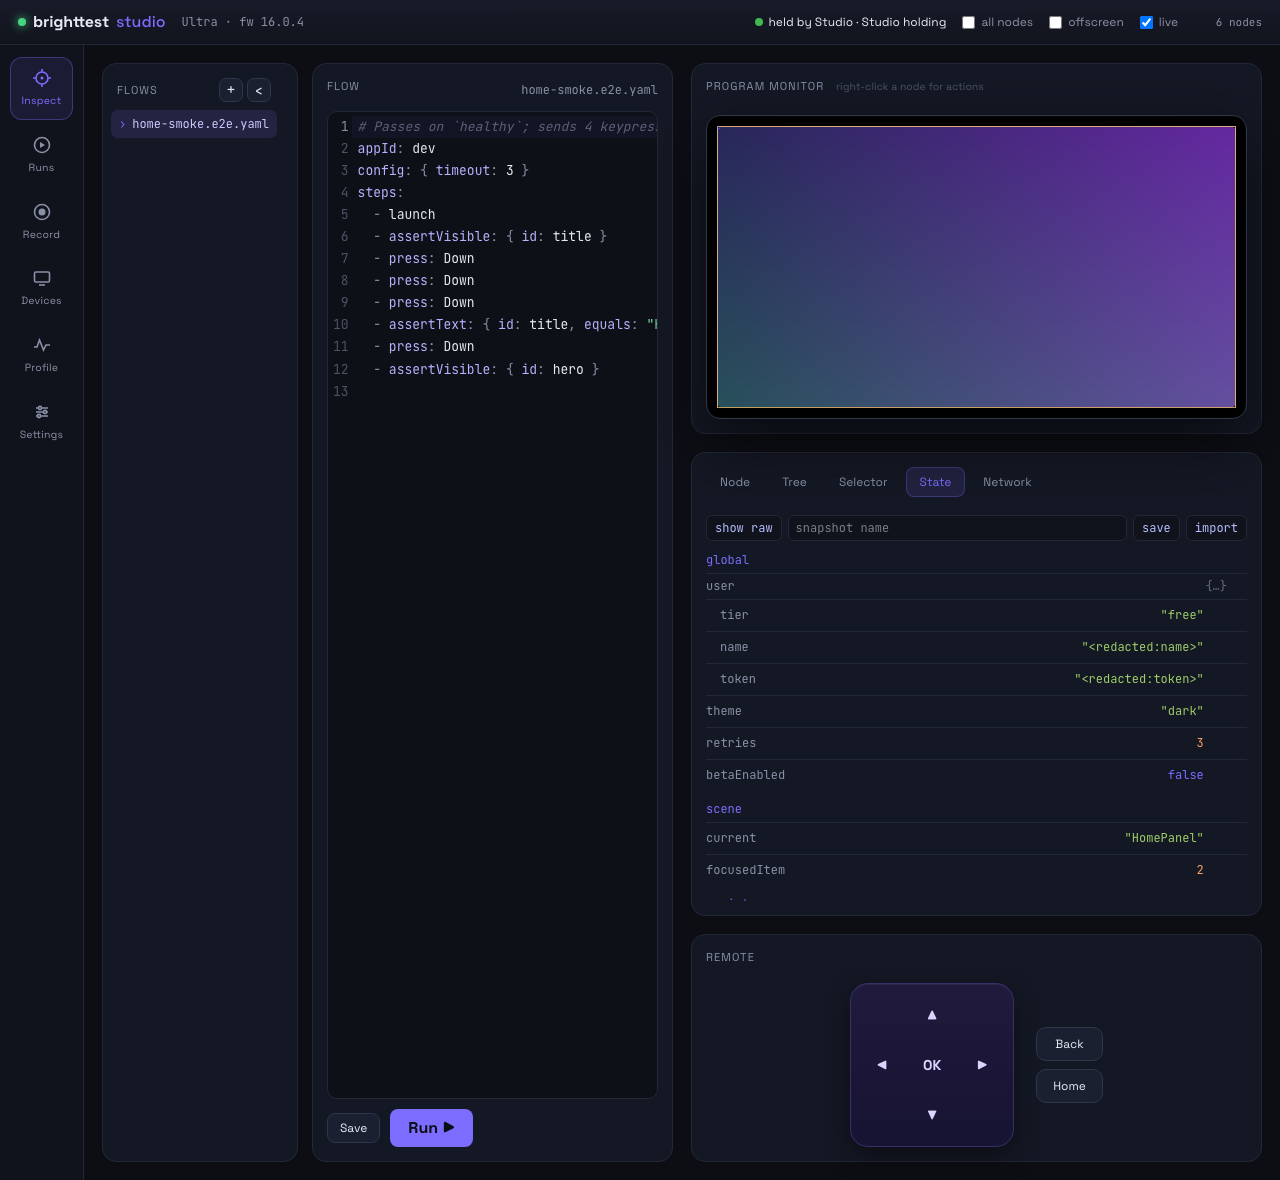
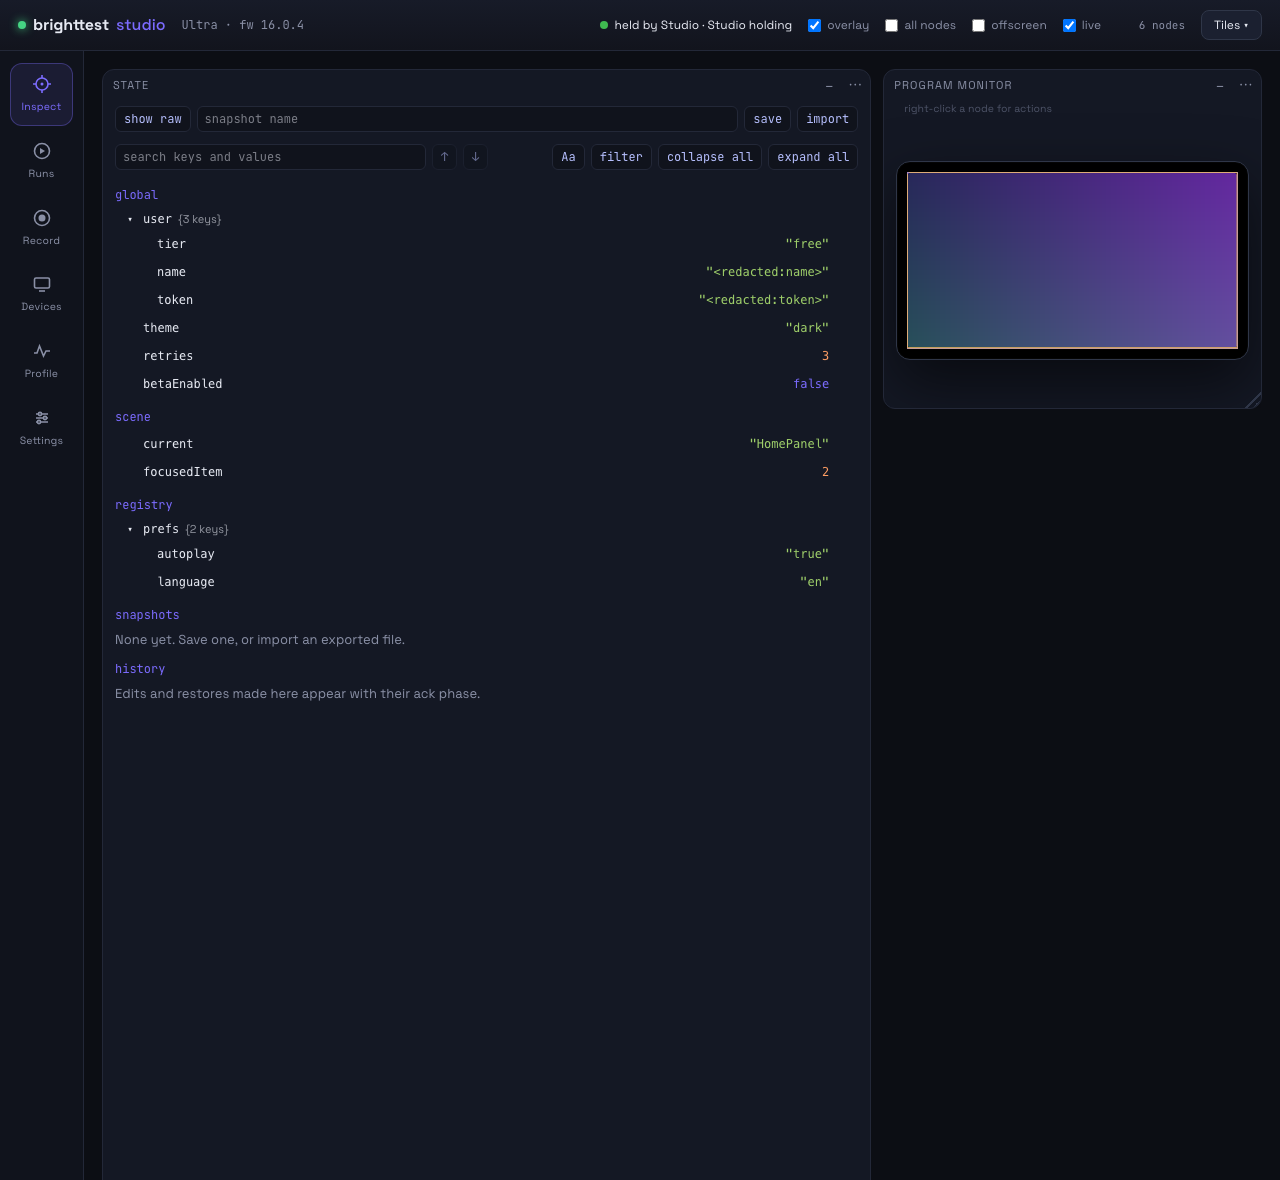
fix(docs): fix the screenshot script for the tile layout and refresh studio images

diff --git a/scripts/docs-screenshots.js b/scripts/docs-screenshots.js
@@ -135,11 +135,16 @@ async function main() {
   await sleep(500);
   await shot('overview.png');
 
-  // State inspector with an edit.
-  await clickText('.tabs button', 'State');
+  // State inspector with an edit. The overview uses the default tile layout; the State shots use a saved tile layout
+  // that gives the State tile most of the page (the same localStorage key the Tiles menu writes), so the rows show.
+  const T = (id, x, y, w, h, state = 'open') => ({ id, x, y, w, h, state });
+  const stateLayout = { v: 1, reg: 1, tiles: [T('state', 0, 0, 8, 34), T('monitor', 8, 0, 4, 8), T('flow', 0, 0, 6, 20, 'hidden'), T('remote', 6, 11, 2, 9, 'hidden'), T('node', 8, 11, 4, 9, 'hidden'), T('tree', 0, 20, 4, 9, 'hidden'), T('selector', 4, 20, 4, 9, 'hidden'), T('actions', 0, 29, 6, 8, 'hidden'), T('network', 6, 29, 6, 8, 'hidden')] };
+  await js(`localStorage.setItem('bt.studio.layout.inspect', ${JSON.stringify(JSON.stringify(stateLayout))})`);
+  await js(`location.reload()`);
+  await until(`document.querySelector('[data-testid="tile-state"]')`, 'the state tile');
   await until(`document.querySelector('button.val.edit')`, 'the state rows');
   await shot('state-inspector.png');
-  await js(`[...document.querySelectorAll('.row')].find((r) => r.querySelector('dt') && r.querySelector('dt').textContent.trim() === 'theme').querySelector('button.val').click()`);
+  await js(`[...document.querySelectorAll('[data-testid="state-row"]')].find((r) => r.querySelector('.key') && r.querySelector('.key').textContent.trim() === 'theme').querySelector('button.val').click()`);
   await js(`(() => { const i = document.querySelector('input.ed'); i.value = 'light'; i.dispatchEvent(new Event('input', { bubbles: true })); })()`);
   await clickText('button', 'set');
   await until(`[...document.querySelectorAll('.chip')].some((c) => c.textContent.trim() === 'reflected')`, 'the reflected ack chip');
@@ -149,7 +154,7 @@ async function main() {
 
   // The device is held elsewhere: Studio lets go of the lease, another session takes it, and an edit is then refused (423).
   const post = (action) => fetch(`${base}/api/lease`, { method: 'POST', headers: { 'Content-Type': 'application/json' }, body: JSON.stringify({ action }) });
-  await js(`[...document.querySelectorAll('.row')].find((r) => r.querySelector('dt') && r.querySelector('dt').textContent.trim() === 'retries').querySelector('button.val').click()`);
+  await js(`[...document.querySelectorAll('[data-testid="state-row"]')].find((r) => r.querySelector('.key') && r.querySelector('.key').textContent.trim() === 'retries').querySelector('button.val').click()`);
   await post('release');
   const key = `127.0.0.1_p${ports.ecpPort}`;
   const other = await lease.acquire({ dir: process.env.BRIGHTTEST_LEASE_DIR, key, agent: 'e2e-run#1', purpose: 'e2e run', pid: process.pid, waitMs: 0, exitOnLost: false, timers: false, identity: {} });

diff --git a/docs/guide/studio.md b/docs/guide/studio.md
@@ -52,7 +52,7 @@ send those headers. (`lib/studio/server.js`, the request guard near `LOOPBACK_HO
 ## The device lease
 
 Studio is a normal client of the [device lease](/guide/device-lease#studio): it takes the lease on the first request from
-an open tab or on a user action, releases it after `studioIdle` without user actions (or `studioYield` when someone is
+an open tile or on a user action, releases it after `studioIdle` without user actions (or `studioYield` when someone is
 queued), and never preempts. While another session holds the device, device routes answer `423` with the lease status.
 The header badge shows who holds the device.
 
@@ -62,7 +62,7 @@ From a source checkout, build the web bundle with `npm run studio:build`.
 
 ![Header badge and banner saying the device is in use by another session, with Take over when free](/images/studio/device-held.png)
 *Another session holds the device (monitor picture is a placeholder frame). The banner offers **Take over when free**, and the
-State tab switches to its read-only held view with the notice "Device is held by another session". An edit sent after the
+State tile switches to its read-only held view with the notice "Device is held by another session". An edit sent after the
 hand-over is refused with HTTP 423 and nothing is written (the inspector sets "Device is held elsewhere; edit not sent."
 but the held view then replaces the panel, so that line may not stay on screen). The header badge can lag: it updates on
 the next poll, so it may still read "Studio holding" or already read "Studio released" while the banner shows the other holder. The read-only held view masks `name` and `token` like the live view.*
@@ -78,16 +78,16 @@ is open. Studio's own hold shows like any other holder, with the purpose `studio
 
 ## State inspector
 
-The **State** tab on the Inspect page reads the instrumented app's `__bt_agent` node over ECP (one small request, not a
+The **State** tile on the Inspect page reads the instrumented app's `__bt_agent` node over ECP (one small request, not a
 tree walk) and shows its layers: `global`, `scene` and `registry`, each marked **truncated** if the agent had to cut
 it. The values shown are redacted by default: the agent masks secret-looking keys as `<redacted:key>`, and Studio adds
 the built-in key names plus `instrument.state.redact.paths` from `brighttest.json`. **show raw** reveals only what
 Studio masks on top of the agent's own masking, behind a banner, and makes exports unredacted.
 Studio masks published app state everywhere it shows it read-only, including the State view when the hub is held or absent, the node list and run traces, using the built-in sensitive key names plus `instrument.state.redact.paths`. Only the State panel's **show raw** toggle (`?raw=1`) reveals raw values. Unmaskable text is shown as `<redacted:text>` (a run step that cannot be masked is shown without its nodes or app state). The failure message of an `assertState` step can still contain the asserted value. Without an
-instrumented build the tab says no layers were published; see [Instrumented builds](/guide/instrument).
+instrumented build the tile says no layers were published; see [Instrumented builds](/guide/instrument).
 
-![State tab showing the global and scene layers, with a masked name and token](/images/studio/state-inspector.png)
-*State tab, read from the scripted stand-in app (monitor picture is a placeholder frame). `name` and `token` are masked.*
+![State tile showing the global and scene layers, with a masked name and token](/images/studio/state-inspector.png)
+*State tile, read from the scripted stand-in app (monitor picture is a placeholder frame). `name` and `token` are masked.*
 
 ### Editing
 
@@ -99,7 +99,7 @@ adds the edit to the open flow, and **+** on a leaf adds an `assertState`. Regis
 `<section>.<key>` value; a `<redacted:...>` marker is never written (HTTP 400 `REDACTED_VALUE`). The hub logs each
 command as `cmd.sent` and the app's replies as `cmd.ack`.
 
-![State tab after editing theme to light, with a reflected chip and a setState step button](/images/studio/state-edit.png)
+![State tile after editing theme to light, with a reflected chip and a setState step button](/images/studio/state-edit.png)
 *An edit of `theme` acked through to **reflected** (monitor picture is a placeholder frame); a snapshot was saved with **save**.*
 
 Snapshots (save, restore, delete, diff, export, import) are capped at 64 KB each, 20 kept. The history list shows each
@@ -108,14 +108,14 @@ edit and restore with its ack phase. The action log, time travel and "save as sp
 
 ### Node State view
 
-The **Node** tab has a **Fields** / **State** switch (Fields, the ECP strings, is the default; the choice is kept for the
+The **Node** tile has a **Fields** / **State** switch (Fields, the ECP strings, is the default; the choice is kept for the
 session). **State** reads the selected node through the app's agent over the hub (`GET /api/state/node`, no ECP request):
-the node's own fields (**fields**) or its component's `m` (**m**), as the same value tree the State tab shows, with a
+the node's own fields (**fields**) or its component's `m` (**m**), as the same value tree the State tile shows, with a
 **refresh** button and the age of the last read. It refreshes every 2 s while it is visible, Live is on and nothing is
 being edited. Open it by clicking a node on the monitor and choosing **State**, by the **state** button on a Tree row,
-or by **Inspect state** in the right-click menu (the last two switch to the Node tab in State view).
+or by **Inspect state** in the right-click menu (the last two switch to the Node tile in State view).
 
-- **Edit** a leaf like in the State tab: the value keeps its type, the edit is sent with `layer: node` or `m` and the
+- **Edit** a leaf like in the State tile: the value keeps its type, the edit is sent with `layer: node` or `m` and the
   node id, and an ack chip walks received, applied or shows the refusal (`FIELD_NOT_FOUND`, `TYPE_MISMATCH`,
   `PATH_UNDER_NODE`, `M_NOT_AVAILABLE`, `M_PATH_FORBIDDEN`, `NODE_NOT_FOUND`, `REDACTED_VALUE`, `STATE_TOO_LARGE`) with a
   short hint. The edited path is read again afterwards. **+ setState step** adds the edit to the open flow. `PATH_UNDER_NODE`
@@ -134,12 +134,12 @@ or by **Inspect state** in the right-click menu (the last two switch to the Node
 - **+** next to a node field adds `assertField` using the tree's string value, only for fields in the node's ECP
   attributes. `m` has no assertion button yet.
 
-### Actions tab
+### Actions tile
 
-The **Actions** tab lists the app's `state.action` log (seq, type, hash before and after) and refreshes every 2 s. **Travel** on a
+The **Actions** tile lists the app's `state.action` log (seq, type, hash before and after) and refreshes every 2 s. **Travel** on a
 row restores the state recorded at that entry. The 202 reply carries a note that is shown as-is: it restores the recorded state
 only, and the effects of later actions (network, registry, tasks) are not undone. An entry with no recorded snapshot answers
-409 `NO_SNAPSHOT`. Recording a snapshot is route-only: Studio has no record control. The tab shows a message, and no rows, when
+409 `NO_SNAPSHOT`. Recording a snapshot is route-only: Studio has no record control. The tile shows a message, and no rows, when
 there is no hub, the device is held elsewhere, or the routes are unreachable.
 
 ### Refusals you may see
@@ -203,8 +203,8 @@ is on by default and Studio remembers the choice in the browser (`localStorage`,
 server or in config.
 
 - **Off:** nothing is drawn over the picture (no outlines, hover or run highlight), clicking the picture selects
-  nothing, and **all nodes** and **offscreen** are disabled. The selected node stays selected, so the Node tab and the
-  context-menu steps still work from the Tree tab. The monitor header shows "overlay off".
+  nothing, and **all nodes** and **offscreen** are disabled. The selected node stays selected, so the Node tile and the
+  context-menu steps still work from the Tree tile. The monitor header shows "overlay off".
 - **Tree reads:** with the overlay off, Studio reads the SceneGraph tree only while the Node, Tree or Selector tile is open
   on the Inspect page, or the State tile shows the read-only app state; then once a second instead of every 300 ms.
   Otherwise it reads nothing, which frees the device for screenshots and key presses.
@@ -213,8 +213,8 @@ server or in config.
 ## Other pages
 
 **Runs** (run flows and step through a time-travel trace; each run frame carries the app state snapshot), **Record**
-(capture remote presses into a flow), **Devices** (discover and switch Rokus) and **Settings** (a read-mostly page of the effective settings, below). **Run** executes state and network steps too (`setState`, `snapshot`, `restore`, `callFunc`, `waitForAgent`, `mockHttp`, `assertRequest` and the rest) through Studio's own hub, the same way `brighttest e2e run` does; with no hub (no `BRIGHTTEST_HUB_TOKEN`, pool mode) such a flow fails before step 1 with the hub's message. `assertLog` and `expectNoLog` still need `e2e run`. **Stop** (`POST /api/run/stop` with the `runId` from the stream's `start` event; 200, or 409 `NOT_RUNNING`) ends a run between steps or mid-step: a polling step stops within about 250 ms, at most one device request is still in flight, and the stream sends `stopped` then `done` with `stopped: true`. The run is saved as **stopped**, the end-of-run cleanup (network rules, flow snapshots, unmatched mode) runs as for any end, and Studio keeps the device lease. A `setState`, `snapshot`, `restore` or `callFunc` already queued on the hub is not recalled and may still apply. Closing the page also stops the run, and only one run is active at a time (a second `/api/run` answers 409 `RUN_IN_PROGRESS`). The **Network** tab shows the hub's HTTP traffic; see [E2E: Network panel](/e2e/#network-panel).
-working controls). **Run** executes state and network steps too (`setState`, `snapshot`, `restore`, `callFunc`, `waitForAgent`, `mockHttp`, `assertRequest` and the rest) through Studio's own hub, the same way `brighttest e2e run` does; with no hub (no `BRIGHTTEST_HUB_TOKEN`, pool mode) such a flow fails before step 1 with the hub's message. `assertLog` and `expectNoLog` still need `e2e run`. **Stop** (`POST /api/run/stop` with the `runId` from the stream's `start` event; 200, or 409 `NOT_RUNNING`) ends a run between steps or mid-step: a polling step stops within about 250 ms, at most one device request is still in flight, and the stream sends `stopped` then `done` with `stopped: true`. The run is saved as **stopped**, the end-of-run cleanup (network rules, flow snapshots, unmatched mode) runs as for any end, and Studio keeps the device lease. A `setState`, `snapshot`, `restore` or `callFunc` already queued on the hub is not recalled and may still apply. In the page, **Run** becomes a red **Stop** button (`flow-stop`) while a run is active, and `Cmd+.` (macOS) or `Ctrl+.` stops it too, in the editor or anywhere on the page; Escape is left to the editor. The button then reads **Stopping...** until the run ends (after 5 s with no answer the page closes the stream, which stops the run anyway). The stopped step shows an amber square, the message reads "run stopped at step N (op)", a step stopped while a state command was queued adds that the command may still have applied, and the Runs page marks the run with a **stopped** badge (`run-stopped-badge`). Closing the page also stops the run, and only one run is active at a time (a second `/api/run` answers 409 `RUN_IN_PROGRESS`, which the page shows as "a run is already in progress"). The **Network** tab shows the hub's HTTP traffic; see [E2E: Network panel](/e2e/#network-panel).
+(capture remote presses into a flow), **Devices** (discover and switch Rokus) and **Settings** (a read-mostly page of the effective settings, below). **Run** executes state and network steps too (`setState`, `snapshot`, `restore`, `callFunc`, `waitForAgent`, `mockHttp`, `assertRequest` and the rest) through Studio's own hub, the same way `brighttest e2e run` does; with no hub (no `BRIGHTTEST_HUB_TOKEN`, pool mode) such a flow fails before step 1 with the hub's message. `assertLog` and `expectNoLog` still need `e2e run`. **Stop** (`POST /api/run/stop` with the `runId` from the stream's `start` event; 200, or 409 `NOT_RUNNING`) ends a run between steps or mid-step: a polling step stops within about 250 ms, at most one device request is still in flight, and the stream sends `stopped` then `done` with `stopped: true`. The run is saved as **stopped**, the end-of-run cleanup (network rules, flow snapshots, unmatched mode) runs as for any end, and Studio keeps the device lease. A `setState`, `snapshot`, `restore` or `callFunc` already queued on the hub is not recalled and may still apply. Closing the page also stops the run, and only one run is active at a time (a second `/api/run` answers 409 `RUN_IN_PROGRESS`). The **Network** tile shows the hub's HTTP traffic; see [E2E: Network panel](/e2e/#network-panel).
+working controls). **Run** executes state and network steps too (`setState`, `snapshot`, `restore`, `callFunc`, `waitForAgent`, `mockHttp`, `assertRequest` and the rest) through Studio's own hub, the same way `brighttest e2e run` does; with no hub (no `BRIGHTTEST_HUB_TOKEN`, pool mode) such a flow fails before step 1 with the hub's message. `assertLog` and `expectNoLog` still need `e2e run`. **Stop** (`POST /api/run/stop` with the `runId` from the stream's `start` event; 200, or 409 `NOT_RUNNING`) ends a run between steps or mid-step: a polling step stops within about 250 ms, at most one device request is still in flight, and the stream sends `stopped` then `done` with `stopped: true`. The run is saved as **stopped**, the end-of-run cleanup (network rules, flow snapshots, unmatched mode) runs as for any end, and Studio keeps the device lease. A `setState`, `snapshot`, `restore` or `callFunc` already queued on the hub is not recalled and may still apply. In the page, **Run** becomes a red **Stop** button (`flow-stop`) while a run is active, and `Cmd+.` (macOS) or `Ctrl+.` stops it too, in the editor or anywhere on the page; Escape is left to the editor. The button then reads **Stopping...** until the run ends (after 5 s with no answer the page closes the stream, which stops the run anyway). The stopped step shows an amber square, the message reads "run stopped at step N (op)", a step stopped while a state command was queued adds that the command may still have applied, and the Runs page marks the run with a **stopped** badge (`run-stopped-badge`). Closing the page also stops the run, and only one run is active at a time (a second `/api/run` answers 409 `RUN_IN_PROGRESS`, which the page shows as "a run is already in progress"). The **Network** tile shows the hub's HTTP traffic; see [E2E: Network panel](/e2e/#network-panel).
 ### Settings page
 
 Settings shows what Studio is using and where each value came from; it changes only two things, both on request: **Save as project default** and **Reset Studio preferences in this
@@ -278,7 +278,7 @@ performance) answer 409 `SIMULATOR_TARGET`, and the Network panel needs a device
   path from its package, so it is not affected.
 - **Install step**: nothing extra to install; `npm i brs-node` only if it is missing from `node_modules`.
 - **Header badge**: instead of the device lease badge the header shows the engine and its
-  state, like `simulator · brs-node@2.7.1 (stock) · running`. The Screen mirror, Remote and Run controls say they need a device. The State tab shows live layers in
+  state, like `simulator · brs-node@2.7.1 (stock) · running`. The Screen mirror, Remote and Run controls say they need a device. The State tile shows live layers in
   this mode: each refresh asks the app for a `snapshot` through the instrument hub (quiet: it is not logged, streamed
   or listed, so refreshing never evicts the action log). Simulator layers cover global, scene, node and registry and
   exclude `focus` (a device-only read). Before the app has said hello, or when the engine is `no-hello` or has exited,
@@ -306,7 +306,7 @@ performance) answer 409 `SIMULATOR_TARGET`, and the Network panel needs a device
 - **403 forbidden host/origin or 415**: you reached Studio through a non-loopback name, or a script omitted
   `Content-Type: application/json`.
 - **Everything answers 423**: someone else holds the device; see `brighttest device status`.
-- **State tab is read only**: no hub or no hello yet; the message in the tab says which.
+- **State tile is read only**: no hub or no hello yet; the message in the tile says which.
 - **Port 8700 busy**: Studio prints the fallback port it chose.
 
 ## Verification status
